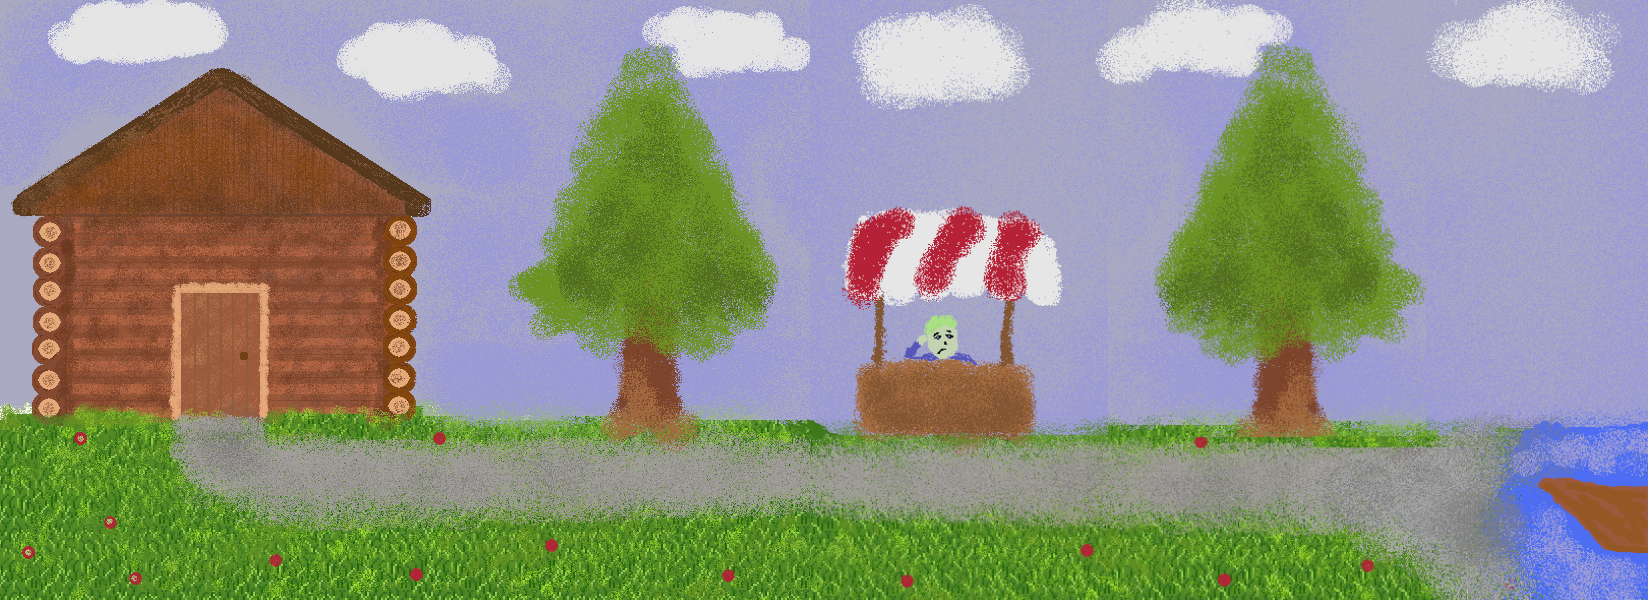
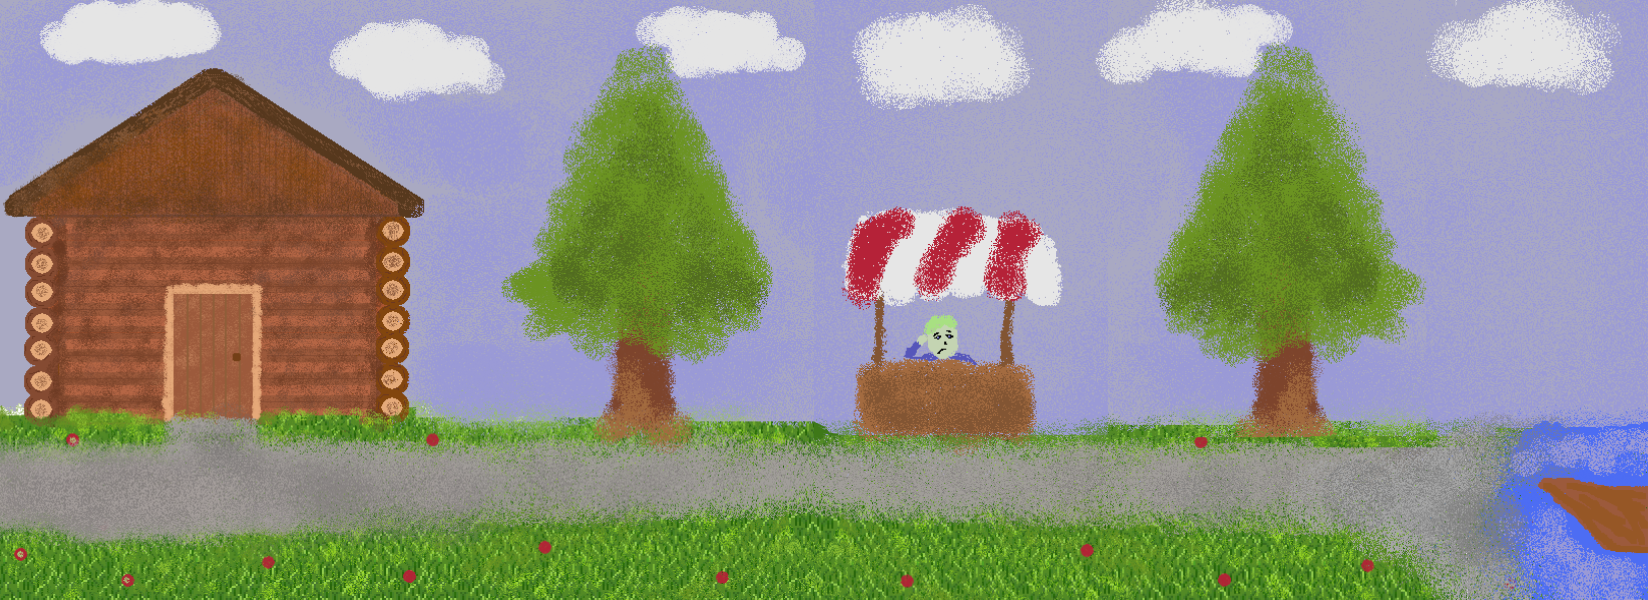
nová zona(bar, auto, cesta) teleporty E, Bug (blikání E)

diff --git a/hra.py b/hra.py
@@ -45,7 +45,7 @@ def soucet_vsech_baits():
 okno_sirka = 800
 okno_vyska = 600
 
-hrac_pozice_x = 400
+hrac_pozice_x = 500
 hrac_pozice_y = 315
 hrac_rychlost = 4
 hrac_velikostX= 110
@@ -53,10 +53,11 @@ hrac_velikostY = 170
 
 info_jezero = 1570
 info_shop = 920
-info_dum = 198
+info_dum = 190
 info_vnitrek_domu = 750
+info_cesta_rozcestnik = 1575
 
-kamera_x = 0
+kamera_x = 100
 
 soubor = open("shop.txt", "r", encoding="utf-8")
 
@@ -481,8 +482,9 @@ ikona_prut = pygame.image.load("ikona_prut.png")
 rybareni_dole = pygame.image.load("rybareni_dole.png")
 rybareni_pozor = pygame.image.load("rybareni_pozor.png")
 dum = pygame.image.load("dum.png")
+rozcestnik = pygame.image.load("rozcestnik.png")
 
-pozadi = venek
+pozadi = rozcestnik
 pozadi_sirka = pozadi.get_width()
 pozadi_vyska = pozadi.get_height()
 
@@ -580,7 +582,7 @@ hlaska_text = hlaska_font.render(shop_hlaska, True, cerna)
 # CYKLICKE VYKRESLOVANI FRAMU HRY
 
 while True:
-    print(hrac_pozice_x)
+    print(hrac_pozice_x, kamera_x)
 
     # OVLADANI HRY HRACEM
     
@@ -626,12 +628,42 @@ while True:
         else:
             aktualni_sprite = TEXTURApepa_2
         hrac_pozice_x -= hrac_rychlost
-    
+        
+        
+    # ROZCESTNIK
+    if pozadi == rozcestnik:
+        if hrac_pozice_x < 250:
+            hrac_pozice_x = 250
+        if hrac_pozice_x > pozadi_sirka - hrac_velikostX - 118 :
+            hrac_pozice_x = pozadi_sirka - hrac_velikostX - 118
+            
+        if hrac_obrazovka_x > prava_zona:
+            kamera_x += hrac_rychlost
+        if hrac_obrazovka_x < leva_zona:
+            kamera_x -= hrac_rychlost
+            
+        if kamera_x < 0:
+            kamera_x = 0
+        if kamera_x > pozadi_sirka - okno_sirka:
+            kamera_x = pozadi_sirka - okno_sirka
+        
+        stojim_u_cesty_rozcestnik = hrac_pozice_x > 1360 and hrac_pozice_x < 1500
+        
+        info_rozcestnik_obrazovka_x = info_cesta_rozcestnik - kamera_x
+        
+        if stojim_u_cesty_rozcestnik and stisknuto[pygame.K_e] and not inventar:
+            pozadi = venek
+            hrac_pozice_x = 340
+            kamera_x = 0
+            pozadi_sirka = pozadi.get_width()
+            pozadi_vyska = pozadi.get_height()
+            hrac_rychlost = 4
+        
     #VENEK
     
     if pozadi == venek:
-        if hrac_pozice_x < 0:
-            hrac_pozice_x = 0
+        if hrac_pozice_x < 60:
+            hrac_pozice_x = 60
         if hrac_pozice_x > pozadi_sirka - hrac_velikostX - 170:
             hrac_pozice_x = pozadi_sirka - hrac_velikostX - 170
                 
@@ -648,7 +680,15 @@ while True:
 
         info_shop_obrazovka_x = info_shop - kamera_x
 
+        stojim_u_cesty_venek = hrac_pozice_x > 1 and hrac_pozice_x < 80
         
+        if stojim_u_cesty_venek and stisknuto[pygame.K_e] and not inventar:
+            pozadi = rozcestnik
+            #hrac_rychlost = 4
+            hrac_pozice_x = 1300
+            kamera_x = 848
+            pozadi_sirka = pozadi.get_width()
+            pozadi_vyska = pozadi.get_height()
         stojim_u_jezera = hrac_pozice_x > 1320 and hrac_pozice_x < 1450
         
         #Vstup na jezero
@@ -683,7 +723,7 @@ while True:
             shop_hlaska = random.choice(seznam_vet)
             hlaska_text = hlaska_font.render(shop_hlaska, True, cerna)
         
-        stojim_u_domu = hrac_pozice_x > 25 and hrac_pozice_x < 340
+        stojim_u_domu = hrac_pozice_x > 90 and hrac_pozice_x < 340
         info_dum_obrazovka_x = info_dum - kamera_x
         
         if stojim_u_domu and stisknuto[pygame.K_e] and not inventar:
@@ -693,6 +733,8 @@ while True:
             pozadi_sirka = pozadi.get_width()
             pozadi_vyska = pozadi.get_height()
             kamera_x = 0
+        
+
         
     #DUM
     info_vnitrek_domu_obrazovka_x = info_vnitrek_domu - kamera_x
@@ -1042,7 +1084,7 @@ while True:
         pygame.mouse.set_cursor(pygame.SYSTEM_CURSOR_HAND)
     elif tlacitko.collidepoint(mys_pozice) and inventar:
         pygame.mouse.set_cursor(pygame.SYSTEM_CURSOR_HAND)
-    elif zpet_tlacitko_rect.collidepoint(mys_pozice) and not prut and not minihra and not pozadi == jezero and not pozadi == shop and not pozadi == venek and not shop_mode == "buy" and not shop_mode == "sell" and not inventar and not pozadi == dum:
+    elif zpet_tlacitko_rect.collidepoint(mys_pozice) and not prut and not minihra and pozadi == rybareni and not inventar:
         pygame.mouse.set_cursor(pygame.SYSTEM_CURSOR_HAND)
     elif pozadi == pozadi_shop and shop_mode == "sell" and plechovka_sell.collidepoint(mys_pozice):
         pygame.mouse.set_cursor(pygame.SYSTEM_CURSOR_HAND)
@@ -1098,6 +1140,11 @@ while True:
         okno.blit(pozadi, (-kamera_x, 0))
     else:
         okno.blit(pozadi, (0, 0))
+        
+    if pozadi == rozcestnik and stojim_u_cesty_rozcestnik:
+        pygame.draw.rect(okno, cerna, (info_rozcestnik_obrazovka_x - 1, 339, 52, 52))
+        pygame.draw.rect(okno, bila, (info_rozcestnik_obrazovka_x, 340, 50, 50))
+        okno.blit(E_text, (info_rozcestnik_obrazovka_x + (50/2 - E_text.get_size()[0] / 2), 352))    
     
     if pozadi == venek and stojim_u_jezera:
         pygame.draw.rect(okno, cerna, za_e_u_jezera)
@@ -1111,40 +1158,37 @@ while True:
         pygame.draw.rect(okno, (bila), (info_shop_obrazovka_x, 360, 50, 50))
         okno.blit(E_text, (info_shop_obrazovka_x + (50/2 - E_text.get_size()[0] / 2), 372))
     
-    stojim_u_leva_lod = hrac_pozice_x > 329 and hrac_pozice_x < 350
-
     if pozadi == jezero and stojim_u_leva_lod:
         pygame.draw.rect(okno, cerna, (21, 339, 52, 52)) 
         pygame.draw.rect(okno, (bila), (22, 340, 50, 50))
         okno.blit(E_text, (info_jezero_obrazovka_x + (50/2 - E_text.get_size()[0] / 2) - 700, 352))
     
-    stojim_u_prava_lod = hrac_pozice_x > 395 and hrac_pozice_x < 423
-
     if pozadi == jezero and stojim_u_prava_lod:
         okno.blit(ikona_prut, (722, 290))
         pygame.draw.rect(okno, cerna, za_space_u_jezera)
         pygame.draw.rect(okno, bila, (722, 340, 50, 50))
         okno.blit(E_text, (info_jezero_obrazovka_x + (50/2 - E_text.get_size()[0] / 2), 352))
     
-    stojim_u_domu = hrac_pozice_x > 25 and hrac_pozice_x < 340
-
     if pozadi == venek and stojim_u_domu:
         pygame.draw.rect(okno, cerna, (info_dum_obrazovka_x - 1, 339, 52, 52))
         pygame.draw.rect(okno, bila, (info_dum_obrazovka_x, 340, 50, 50))
-        okno.blit(E_text, (info_jezero_obrazovka_x + (50/2 - E_text.get_size()[0] / 2) - 1373, 352))
-    
-    stojim_u_dveri = hrac_pozice_x > 560 and hrac_pozice_x < 800       
-    
+        okno.blit(E_text, (info_jezero_obrazovka_x + (50/2 - E_text.get_size()[0] / 2) - 1380, 352))
+        
     if pozadi == dum and stojim_u_dveri:
         pygame.draw.rect(okno, cerna, (729, 339, 52, 52))
         pygame.draw.rect(okno, bila, (730, 340, 50, 50))
         okno.blit(E_text, (info_vnitrek_domu_obrazovka_x + (50/2 - E_text.get_size()[0] / 2) - 20, 352))
+        
     if pozadi == dum and stojim_u_postele:
         pygame.draw.rect(okno, cerna,(info_vnitrek_domu_obrazovka_x - 225, 249,52,52))
         pygame.draw.rect(okno, bila, (info_vnitrek_domu_obrazovka_x - 224, 250,50,50))
         okno.blit(E_text, (info_vnitrek_domu_obrazovka_x + (50/2 - E_text.get_size()[0] / 2) - 224, 263))
-        
-
+    
+    if pozadi == venek and stojim_u_cesty_venek:
+        pygame.draw.rect(okno, cerna, (info_jezero_obrazovka_x - 1565, 339, 52, 52))
+        pygame.draw.rect(okno, bila, (info_jezero_obrazovka_x - 1564, 340, 50, 50))
+        okno.blit(E_text, (info_jezero_obrazovka_x - 1564 + (50/2 - E_text.get_size()[0] / 2), 352))
+    
     if pozadi != shop and pozadi != rybareni and pozadi != rybareni_dole and pozadi != rybareni_pozor:
         okno.blit(aktualni_sprite, (hrac_obrazovka_x, hrac_pozice_y))
           
